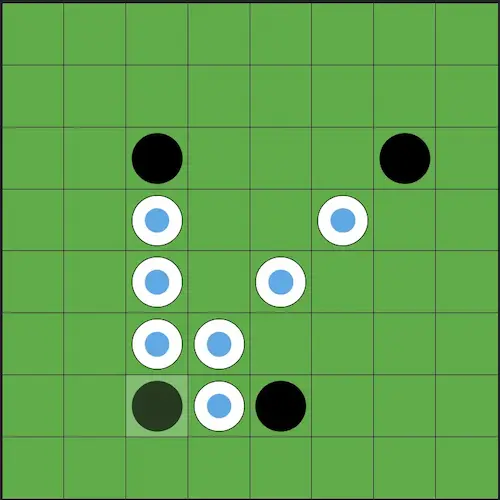
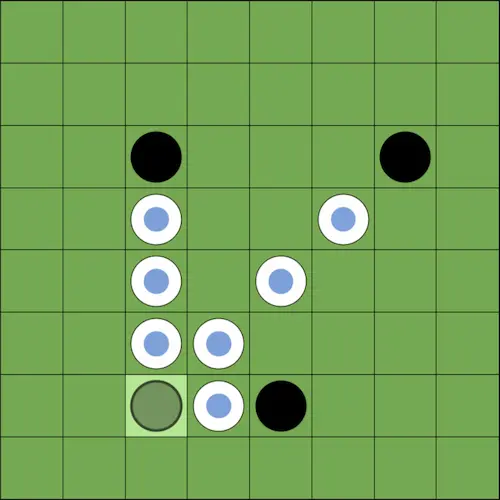
Update : images of rules

Changed region(s): [[0.0, 0.0, 1.0, 1.0]]

diff --git a/src/components/Rules.jsx b/src/components/Rules.jsx
@@ -48,10 +48,17 @@ function Rules() {
         De plus, vous pouvez également voir le coup joué par votre adversaire
         par des indications visuelles sur le plateau :
       </p>
-      <img
-        src="./assets/images/affichage-coup-precedent.webp"
-        alt="Indication du coup précédent"
-      />
+      <div>
+        <img
+          src="./assets/images/affichage-coup-precedent-blanc.webp"
+          alt="Indication du coup précédent pour les joueurs aux jetons blancs"
+        />
+        <img
+          src="./assets/images/affichage-coup-precedent-noir.webp"
+          alt="Indication du coup précédent pour les joueurs aux jetons noirs"
+        />
+      </div>
+
       <p>
         Un pion indiqués par un oeillet vert a été posé lors du dernier coup.
       </p>

diff --git a/src/assets/styles/rules.css b/src/assets/styles/rules.css
@@ -29,6 +29,13 @@
   margin: 0.7rem 1rem;
 }
 
+#rules div {
+  display: flex;
+  flex-wrap: wrap;
+  justify-content: center;
+  align-items: center;
+}
+
 #rules img {
   width: 320px;
   height: 320px;
